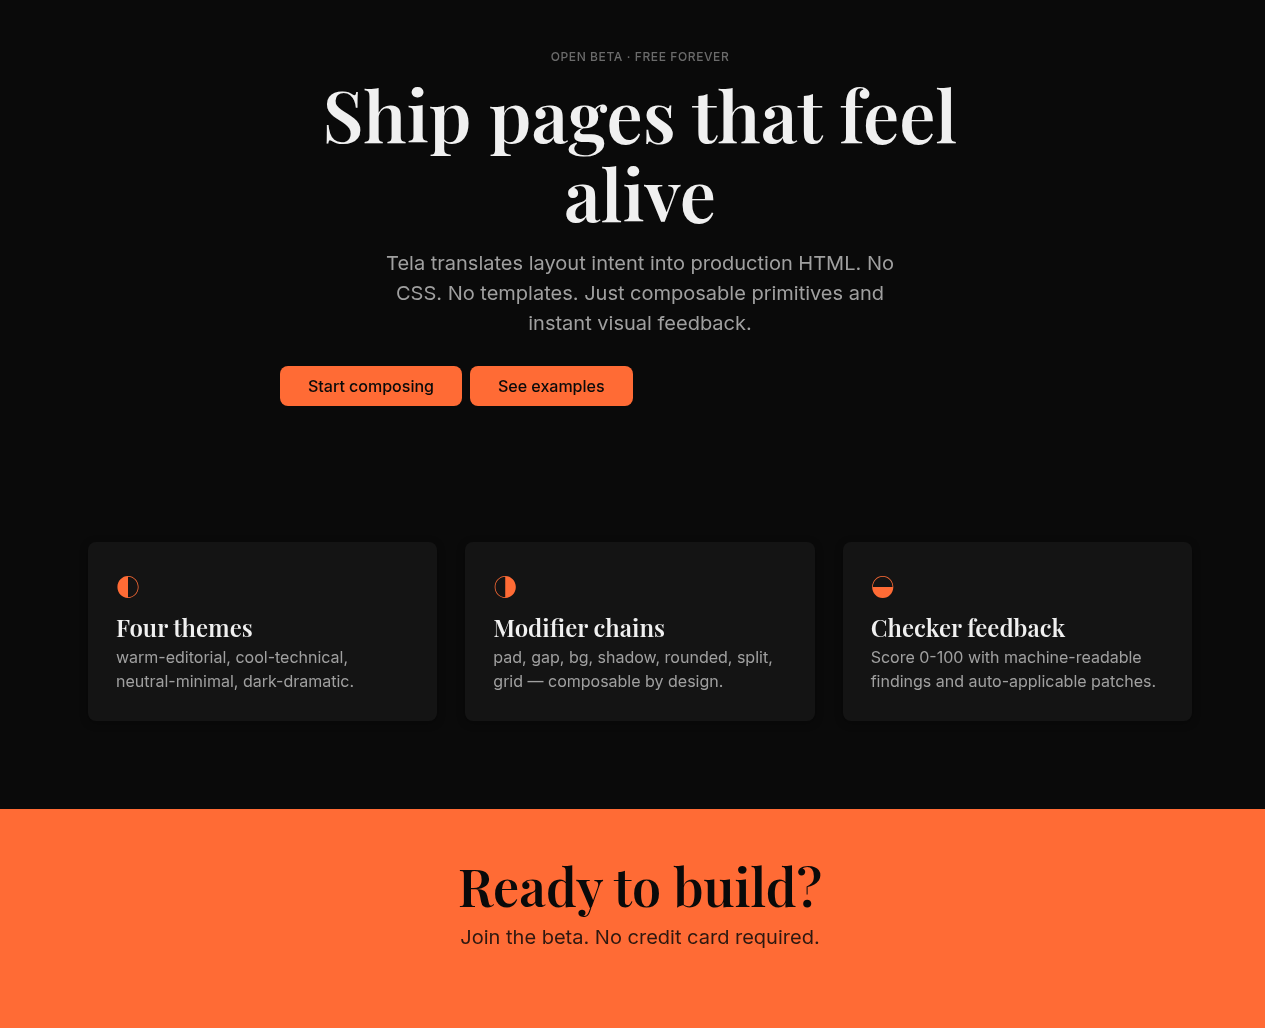
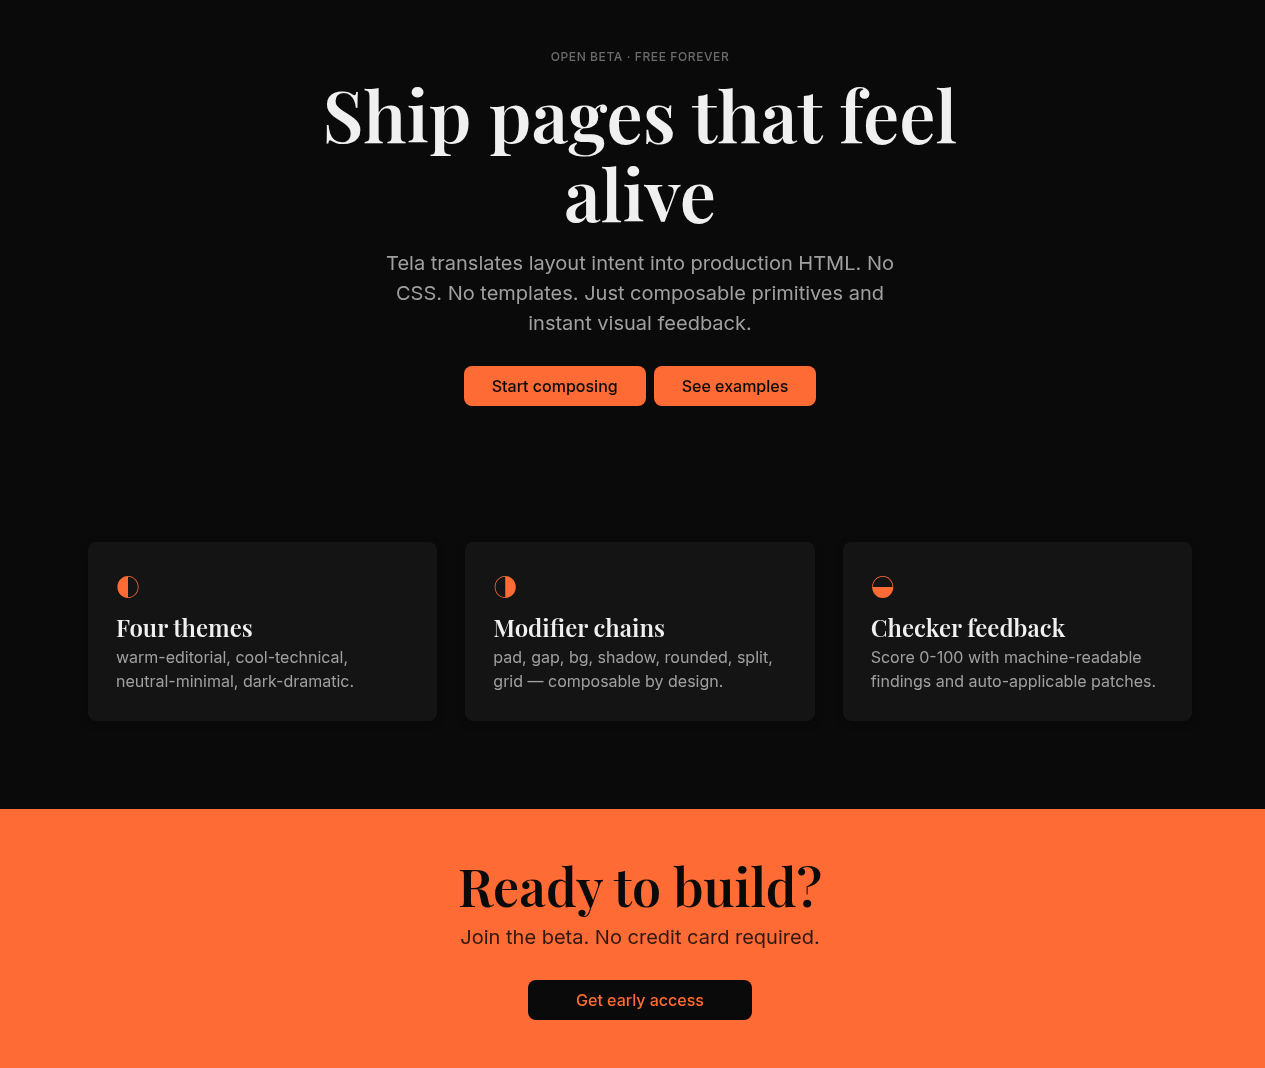
fix: rendering quality — centered CTAs, background-image figure, cta actions fallback
- shared.ts: renderCtaGroup accepts centered param → justify-content center
- hero.ts: pass isCentered to renderCtaGroup; render figure as background-image
  div instead of <img> for reliable aspect-ratio sizing in headless Chromium
- cta.ts: fall back to properties['cta'] when 'actions' key not found
- Updated all three README example screenshots

diff --git a/src/primitives/hero.ts b/src/primitives/hero.ts
@@ -91,7 +91,7 @@ export function renderHero(ctx: RenderContext): string {
   }
 
   if (cta) {
-    html += renderCtaGroup(cta, isInverted);
+    html += renderCtaGroup(cta, isInverted, isCentered);
   }
 
   html += `  </div>\n</section>`;
@@ -187,22 +187,23 @@ function renderSplitHero(
     const figSrc = resolveString(figureVal.type === 'modified' ? figureVal.base : figureVal);
     const figMods = figureVal.type === 'modified' ? figureVal.modifiers : [];
     const aspectMod = figMods.find((m) => m.name === 'aspect');
-    const aspect = aspectMod
+    const aspectRatio = aspectMod
       ? `${aspectMod.args[0]}/${aspectMod.args[1]}`
-      : 'auto';
+      : '4/3';
     const isRounded = figMods.some((m) => m.name === 'rounded');
     const shadowArg = figMods.find((m) => m.name === 'shadow')?.args[0];
     const shadow = shadowArg ? shadowToken(String(shadowArg)) : 'none';
 
-    rightHtml += `      <img src="${esc(figSrc)}" alt="" class="tela-figure" style="${style({
+    // Render as background-image div for reliable aspect-ratio sizing
+    rightHtml += `      <div class="tela-figure" style="${style({
       'width': '100%',
-      'height': 'auto',
-      'aspect-ratio': aspect,
-      'object-fit': 'cover',
+      'aspect-ratio': aspectRatio,
+      'background-image': `url('${figSrc}')`,
+      'background-size': 'cover',
+      'background-position': 'center',
       'border-radius': isRounded ? T.radiusLg : '0',
       'box-shadow': shadow,
-      'display': 'block',
-    })}">\n`;
+    })}"></div>\n`;
   }
 
   return `<section class="tela-hero tela-hero--split-${leftFr}-${rightFr}" style="${sectionStyle}">

diff --git a/src/primitives/shared.ts b/src/primitives/shared.ts
@@ -10,7 +10,7 @@ import { T, esc, style, resolveString, getBlockValueProps, getArrayItems } from 
  * @param cta - The value containing button definitions (array of blockValues)
  * @param inverted - Whether to use inverted colors (light buttons on dark bg)
  */
-export function renderCtaGroup(cta: Value, inverted: boolean = false): string {
+export function renderCtaGroup(cta: Value, inverted: boolean = false, centered: boolean = false): string {
   const items = getArrayItems(cta);
   if (items.length === 0) return '';
 
@@ -24,6 +24,7 @@ export function renderCtaGroup(cta: Value, inverted: boolean = false): string {
     'gap': T.spaceSm,
     'flex-wrap': 'wrap',
     'align-items': 'center',
+    ...(centered ? { 'justify-content': 'center' } : {}),
   })}">
 ${buttonsHtml}    </div>`;
 }

diff --git a/src/primitives/cta.ts b/src/primitives/cta.ts
@@ -12,7 +12,7 @@ export function renderCta(ctx: RenderContext): string {
 
   const headline = resolveString(properties['headline']);
   const body = resolveString(properties['body']);
-  const actions = properties['actions'];
+  const actions = properties['actions'] ?? properties['cta'];
 
   const isCentered = hasMod(modifiers, 'centered') || true; // CTA is always centered by design
   const isInverted = hasMod(modifiers, 'inverted');